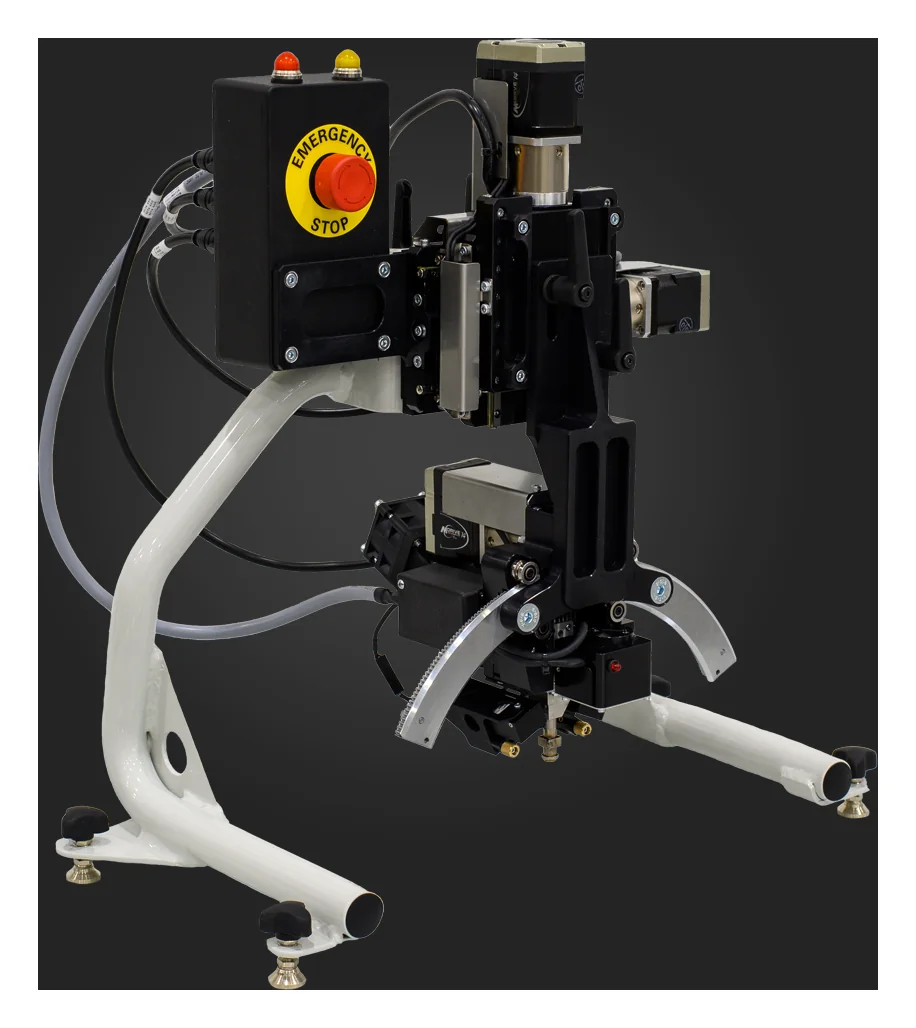
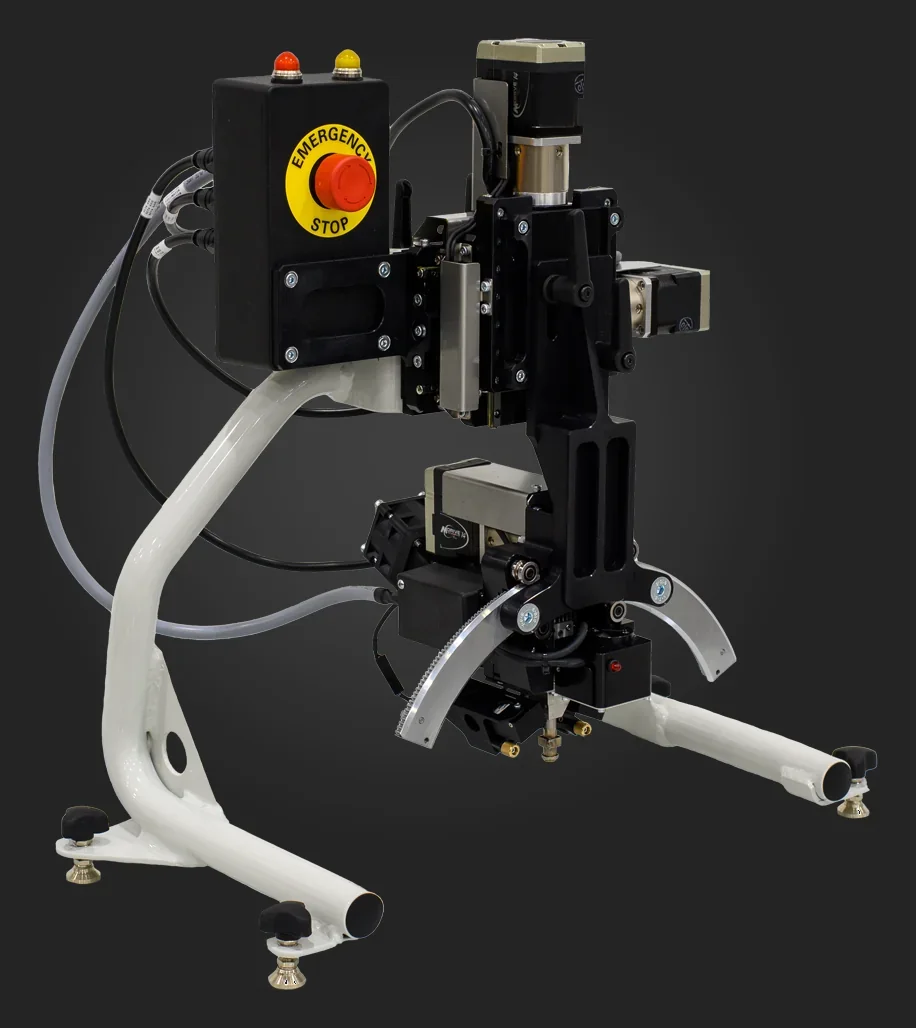
Final sweep fixes: invisible hero step links no longer catch taps over the first-screen CTAs; footer two columns on tablets; Arabic number isolation in equipment family intros, gated spec labels and calculator examples; product names that start with a number keep their order in Arabic (h1, breadcrum

Changed region(s): [[0.0, 0.0, 1.0, 1.0]]

diff --git a/src/data/catalog.ts b/src/data/catalog.ts
@@ -41,7 +41,7 @@ export const brandPath = (b: Pick<Brand, 'slug'>) => (b.slug === 'gasmix' ? '/ga
 export const productPath = (b: Pick<Brand, 'slug'>, p: Pick<Product, 'slug'>) => `${brandPath(b)}${p.slug}/`;
 
 export const imageOf = (brand: string, slug: string) =>
-  (images as Record<string, { src: string; w: number; h: number; opaque?: boolean }>)[`${brand}/${slug}`];
+  (images as Record<string, { src: string; w: number; h: number; opaque?: boolean; dark?: boolean }>)[`${brand}/${slug}`];
 
 /** Short display name: "Aiolos III Gas Mixer and Gas Diluter" -> "Aiolos III" when a model code exists.
  *  Arabic names keep the English shape (model first), so the same rule applies to them. */

diff --git a/tools/sync-catalog.py b/tools/sync-catalog.py
@@ -37,32 +37,38 @@ def trim(im, pad=0.04, tol=12):
     """Crop transparent margins + uniform borders/frames (judged from the corner pixels), then pad evenly."""
     im = im.convert('RGBA')
     opaque = im.getchannel('A').getextrema()[0] > 250
+    bd = (255, 255, 255)  # backdrop: the last uniform layer peeled off (white for studio shots, dark for dark ones)
     for _ in range(6):  # each pass peels one layer: frame line, then the white behind it, ...
         w, h = im.size
         flat = Image.alpha_composite(Image.new('RGBA', im.size, 'white'), im).convert('RGB')
         box = im.getchannel('A').point(lambda v: 255 if v > 8 else 0).getbbox()
         c = [flat.getpixel(p) for p in ((0, 0), (w - 1, 0), (0, h - 1), (w - 1, h - 1))]
-        if all(max(abs(x - y) for x, y in zip(c[0], q)) <= tol for q in c):
+        uniform = all(max(abs(x - y) for x, y in zip(c[0], q)) <= tol for q in c)
+        if uniform:
             d = ImageChops.difference(flat, Image.new('RGB', im.size, c[0])).convert('L')
             d = d.point(lambda v: 255 if v > tol else 0).getbbox()
             box = d if box is None else (max(box[0], d[0]), max(box[1], d[1]), min(box[2], d[2]), min(box[3], d[3])) if d else box
         if not box or box == (0, 0, w, h):
             break
+        if uniform:
+            bd = c[0]
         im = im.crop(box)
     p = round(max(im.size) * pad)
-    out = Image.new('RGB' if opaque else 'RGBA', (im.width + 2 * p, im.height + 2 * p), 'white' if opaque else (255, 255, 255, 0))
+    # opaque photos are padded with their own backdrop colour, so a dark studio shot doesn't get a white frame
+    fill = bd if opaque else (255, 255, 255, 0)
+    out = Image.new('RGB' if opaque else 'RGBA', (im.width + 2 * p, im.height + 2 * p), fill)
     out.paste(im.convert(out.mode), (p, p))
     return out
 
 def selftest():
     prod = Image.new('RGB', (100, 60), (30, 30, 120))
-    for bg, frame in (((255, 255, 255), None), ((255, 255, 255), (150, 150, 150)), ((240, 240, 240), (200, 0, 0))):
+    for bg, frame in (((255, 255, 255), None), ((255, 255, 255), (150, 150, 150)), ((240, 240, 240), (200, 0, 0)), ((36, 36, 36), (255, 255, 255))):
         im = Image.new('RGB', (400, 300), frame or bg)
         if frame: im.paste(Image.new('RGB', (392, 292), bg), (4, 4))
         im.paste(prod, (150, 120))
         out = trim(im, pad=0.1)  # product 100x60, pad 10px each side
         assert out.size == (120, 80), (bg, frame, out.size)
-        assert out.getpixel((60, 40)) == (30, 30, 120) and out.getpixel((0, 0)) == (255, 255, 255)
+        assert out.getpixel((60, 40)) == (30, 30, 120) and out.getpixel((0, 0)) == bg, (bg, out.getpixel((0, 0)))  # padded with its backdrop
     t = Image.new('RGBA', (400, 300), (0, 0, 0, 0)); t.paste(prod, (150, 120))
     out = trim(t, pad=0.1)
     assert out.size == (120, 80) and out.mode == 'RGBA' and out.getpixel((0, 0))[3] == 0
@@ -111,18 +117,28 @@ for f in files:
     (OUT / f'{brand}.json').write_text(json.dumps(data, ensure_ascii=False, indent=2))
 
 # Products the catalog no longer lists drop out of the manifest; `opaque` marks photos shot on a solid white
-# background (the site blends those into light stages instead of drawing a white box).
+# background (the site blends those into light stages instead of drawing a white box), `dark` a solid dark backdrop.
 listed = {f'{json.loads(f.read_text())["brandSlug"]}/{short(json.loads(f.read_text())["brandSlug"], p["slug"])}' for f in sorted(SRC.glob('*.json')) for p in json.loads(f.read_text())['products']}
 for key in [k for k in manifest if k not in listed]:
     del manifest[key]
+def backdrop(path):
+    """'white' or 'dark' when the photo sits on a solid opaque backdrop (judged from 8 edge points), else None."""
+    im = Image.open(path).convert('RGBA')
+    w, h = im.size
+    pts = [im.getpixel(q) for q in [(x, y) for x in (1, w // 2, w - 2) for y in (1, h - 2)] + [(1, h // 2), (w - 2, h // 2)]]
+    if not all(px[3] == 255 for px in pts): return None
+    if all(min(px[:3]) >= 235 for px in pts): return 'white'
+    if all(max(px[:3]) <= 60 for px in pts): return 'dark'
+    return None
 def opaque_white(path):
     im = Image.open(path).convert('RGBA')
     w, h = im.size
     pts = [(x, y) for x in (1, w // 2, w - 2) for y in (1, h - 2)] + [(1, h // 2), (w - 2, h // 2)]
     return all(im.getpixel(q)[3] == 255 and min(im.getpixel(q)[:3]) >= 235 for q in pts)
 for key, entry in manifest.items():
-    entry.pop('opaque', None)
-    if opaque_white(ROOT / 'public' / entry['src'].lstrip('/')):
-        entry['opaque'] = True
+    entry.pop('opaque', None); entry.pop('dark', None)
+    kind = backdrop(ROOT / 'public' / entry['src'].lstrip('/'))
+    if kind == 'white': entry['opaque'] = True
+    if kind == 'dark': entry['dark'] = True  # shown on a matching dark stage
 manifest_path.write_text(json.dumps(manifest, indent=2, sort_keys=True))
 print('MISSING (no image):', *missing) if missing else print('all products have an image')
